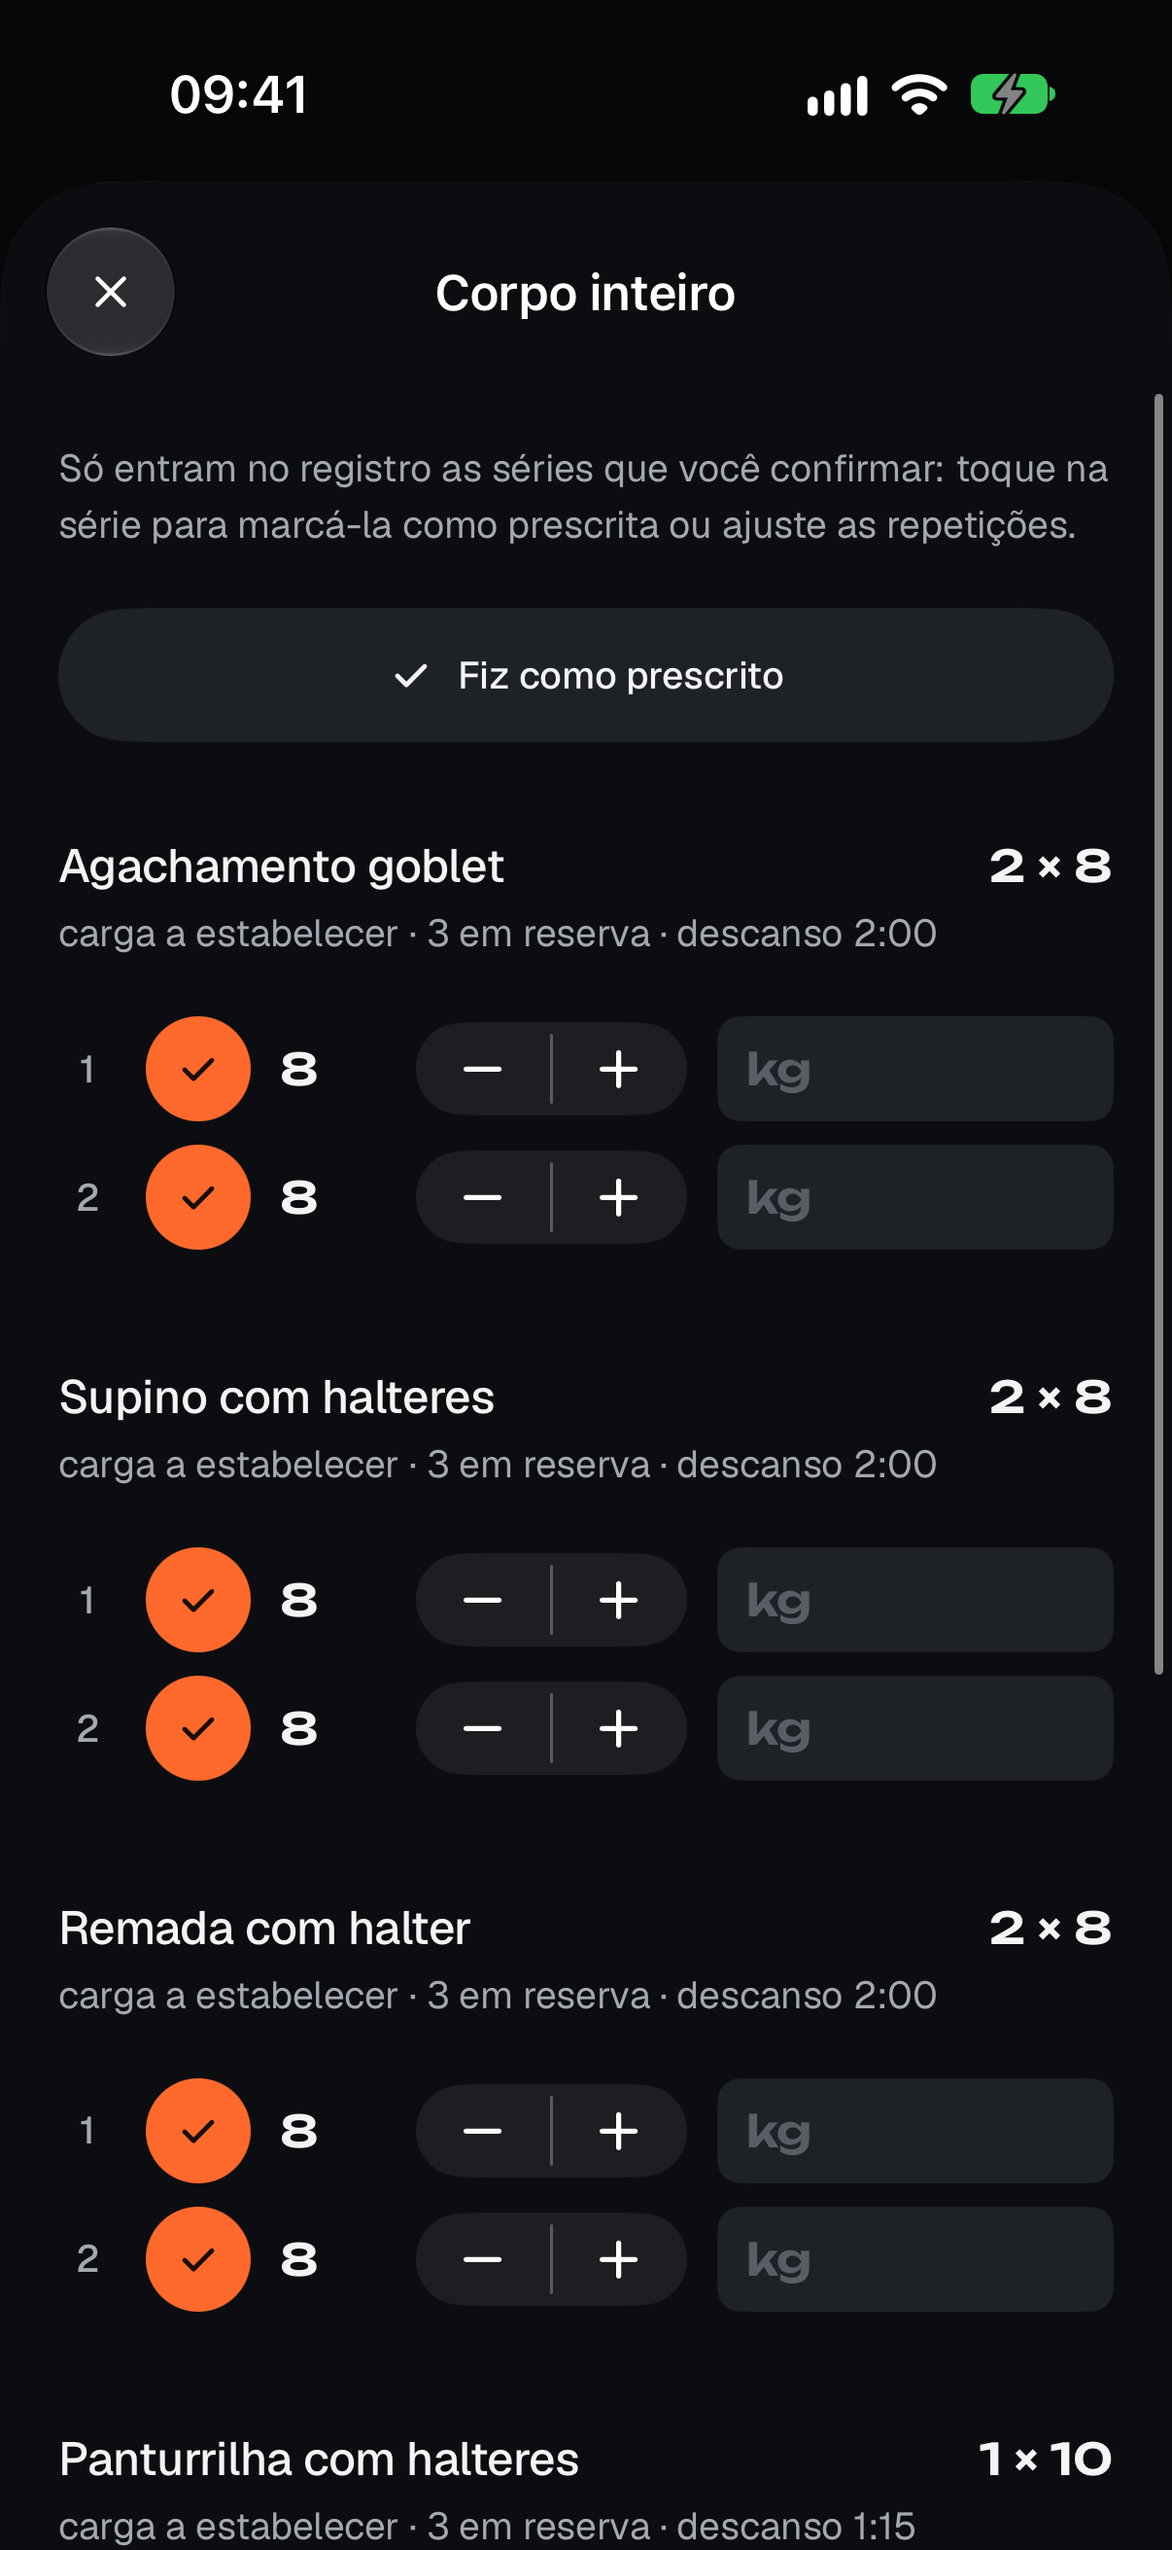
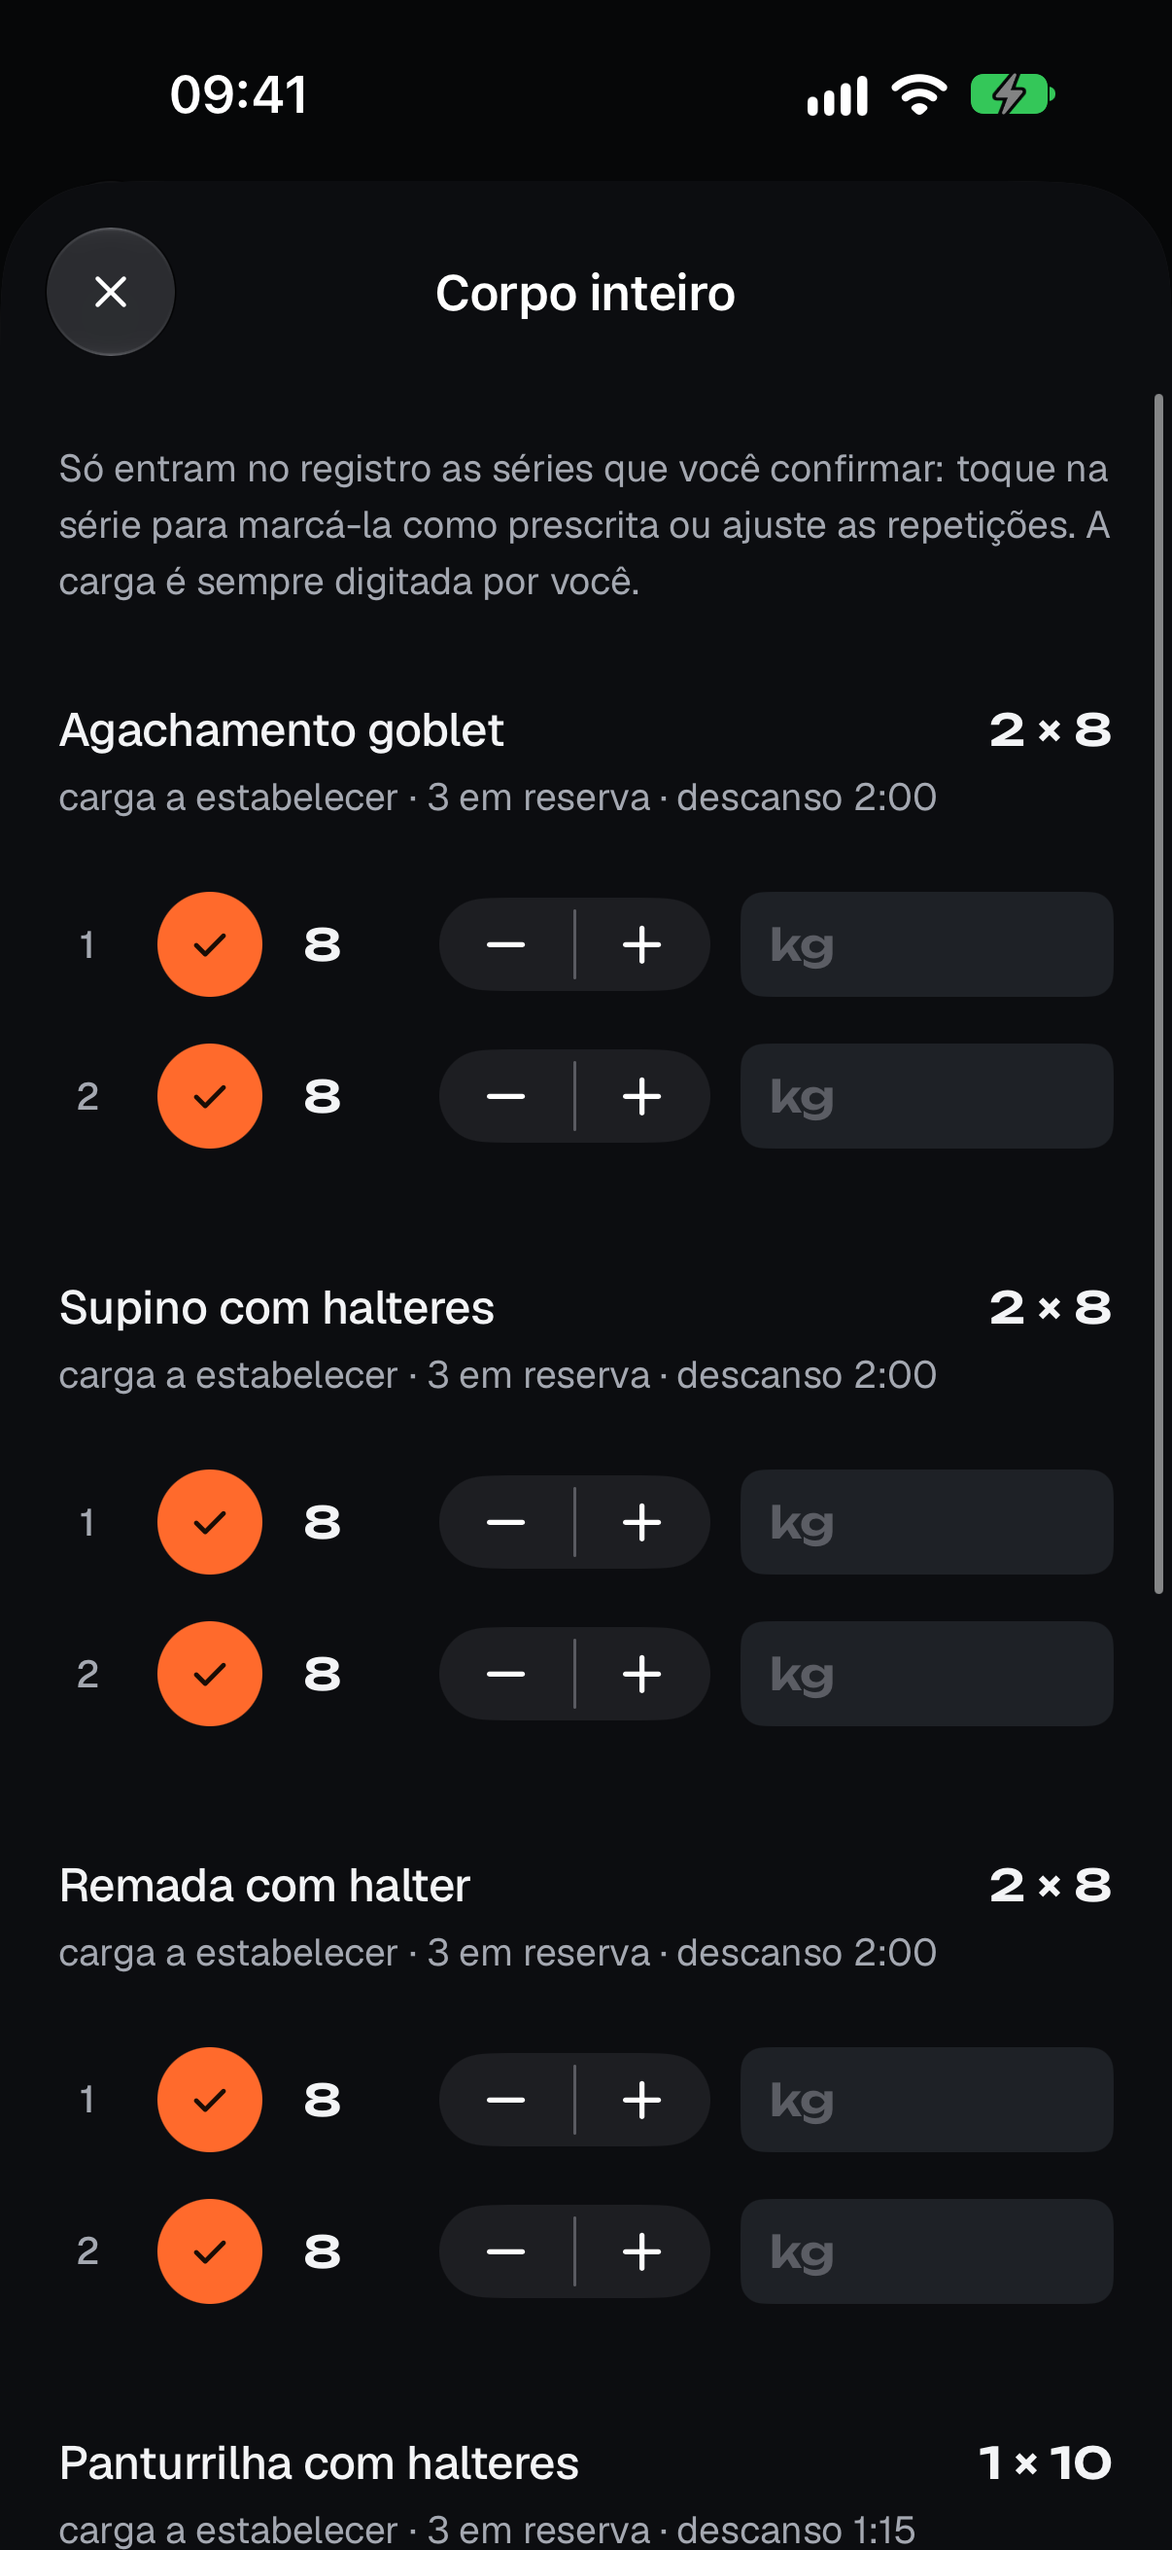
C · #37b: review fixes
Independent SSCTR review of 2171d69 (NOT_READY):
- F1 (P1): `completed` no longer depends on reps. It is true when every
  prescribed set is stated (sets done >= sets planned, as CoachingCore
  bindObservations setsOk); a missing set or an omitted exercise keeps it
  false. A reps shortfall is the per-exercise target (strengthLogs.repsMet),
  read by the engine from the reps sent as stated.
- F2: "Fiz como prescrito" is offered only while no set is stated (confirm
  first, then edit); it can no longer overwrite an edited set.
- F3: VoiceOver hears the count. The reps stepper is labelled with
  exercise + set and its value is the count (or "não registrada"); the check
  value is "registrada, N repetições". New copy keys strength.set.doneReps
  and strength.reps.label replace strength.set.done and strength.reps (all
  three locales via copy.psv + gen_strings.py).
- F4: the load field is disabled until the set is stated; setLoad on an
  unstated set is ignored (never states the set).
- F5: the check's hit area is 44 pt.
- F7: a planned session presented with no exercises fails closed: not
  sendable (minutes alone never report it) and `completed` is false.
- F8: strength.hint says the load is always typed by the athlete.
F6 (duplicate exercise ids) skipped as agreed; the dictionary already keeps
the first entry on a duplicate id.

diff --git a/ios/Packages/RepMileUI/Tests/RepMileUIUnitTests/StrengthLogViewModelTests.swift b/ios/Packages/RepMileUI/Tests/RepMileUIUnitTests/StrengthLogViewModelTests.swift
@@ -61,16 +61,57 @@ final class StrengthLogViewModelTests: XCTestCase {
         let squat = try XCTUnwrap(vm.actual().exercises.first { $0.id == "goblet-squat" })
         XCTAssertEqual(squat.sets, [LoggedSetEntry(reps: 8, load: nil, rir: nil),
                                     LoggedSetEntry(reps: 6, load: LoggedLoadEntry(value: 16.5, unit: .kg, convention: .singleImplement), rir: nil)])
-        XCTAssertFalse(vm.actual().completed, "fewer repetitions than prescribed is a shortfall (CoachingCore strengthLogs)")
-        vm.setReps(10, "goblet-squat", 1)
-        XCTAssertTrue(vm.actual().completed, "more repetitions than prescribed still meets it")
+        XCTAssertTrue(vm.actual().completed, "every set done: completion does not depend on reps (SSCTR #37b F1)")
+    }
+
+    /// SSCTR #37b F1: completion is sets done >= sets planned (CoachingCore `bindObservations` setsOk); a reps shortfall is the
+    /// per-exercise target, read by the engine from the reps sent as stated. A missing set or an omitted exercise keeps it false.
+    func testCompletedCountsSetsNotReps() throws {
+        let vm = viewModel(try session, FixtureCoachingWriter(store: Repo.store))
+        for e in vm.exercises { for i in 0..<e.sets { vm.setReps(3, e.id, i) } }
+        vm.setReps(1, "db-row", 0)
+        let a = vm.actual()
+        XCTAssertTrue(a.completed, "every prescribed set stated, some with fewer reps than prescribed")
+        XCTAssertEqual(a.exercises.first { $0.id == "db-row" }?.sets.map(\.reps), [1, 3], "reps are sent as stated")
+        XCTAssertEqual(a.exercises.first { $0.id == "goblet-squat" }?.sets.map(\.reps), [3, 3])
+        vm.setReps(nil, "goblet-squat", 1)
+        XCTAssertFalse(vm.actual().completed, "a missing set")
+        vm.setReps(3, "goblet-squat", 1)
+        vm.setReps(nil, "dead-bug", 0)
+        XCTAssertFalse(vm.actual().completed, "an omitted exercise")
+    }
+
+    /// SSCTR #37b F2: confirm first, then edit. Once any set is stated, "Fiz como prescrito" is no longer offered and cannot overwrite it.
+    func testConfirmAsPrescribedNeverOverwritesAStatedSet() throws {
+        let vm = viewModel(try session, FixtureCoachingWriter(store: Repo.store))
+        vm.setReps(5, "goblet-squat", 0)
+        XCTAssertFalse(vm.canConfirmAsPrescribed)
+        vm.confirmAsPrescribed()
+        XCTAssertEqual(vm.draft("goblet-squat", 0)?.reps, 5)
+        XCTAssertEqual(vm.statedSetCount, 1)
+        vm.setReps(nil, "goblet-squat", 0)
+        XCTAssertTrue(vm.canConfirmAsPrescribed, "offered again once nothing is stated")
+    }
+
+    /// SSCTR #37b F7: a planned session presented without exercises has nothing to state; it fails closed (never sendable on minutes alone).
+    func testPlannedSessionWithoutExercisesIsNotSendable() async throws {
+        let w = FixtureCoachingWriter(store: Repo.store)
+        let vm = viewModel(try session { $0 = [] }, w)
+        XCTAssertNotNil(vm.session)
+        XCTAssertTrue(vm.exercises.isEmpty)
+        vm.minutes = 30
+        XCTAssertFalse(vm.canSend)
+        XCTAssertFalse(vm.completed)
+        await vm.send()
+        XCTAssertTrue(submits(w).isEmpty)
     }
 
     func testUnconfirmedSetsAndExercisesAreAbsent() throws {
         let vm = viewModel(try session, FixtureCoachingWriter(store: Repo.store))
         vm.toggleSet(try exercise(vm, "goblet-squat"), 0)
         vm.setReps(5, "db-row", 1)
-        vm.setLoad("20", "db-bench-press", 0)  // a load on a set the athlete never stated is not a set
+        vm.setLoad("20", "db-bench-press", 0)  // a load never states a set (SSCTR #37b F4): ignored on an unstated set
+        XCTAssertEqual(vm.draft("db-bench-press", 0), StrengthLogViewModel.SetDraft())
         let a = vm.actual()
         XCTAssertEqual(a.exercises, [LoggedExerciseEntry(id: "goblet-squat", sets: [LoggedSetEntry(reps: 8, load: nil, rir: nil)]),
                                      LoggedExerciseEntry(id: "db-row", sets: [LoggedSetEntry(reps: 5, load: nil, rir: nil)])])
@@ -84,14 +125,19 @@ final class StrengthLogViewModelTests: XCTestCase {
         XCTAssertFalse(vm.canSend)
     }
 
-    /// The same session with no rep count prescribed for one exercise (the shared type allows `reps: nil`).
-    private func session(withoutRepsOn id: String) throws -> PlannedSession {
+    /// The same session with its presented exercises edited (the shared type allows `reps: nil` and an empty list).
+    private func session(_ edit: (inout [[String: Any]]) -> Void) throws -> PlannedSession {
         let view = try XCTUnwrap(try Repo.store.object("02-plan-w0")["view"] as? [String: Any])
         var s = try XCTUnwrap(((view["week"] as? [String: Any])?["sessions"] as? [[String: Any]])?.first { $0["id"] as? String == "w0-str-d2" })
         var p = try XCTUnwrap(s["prescription"] as? [String: Any])
-        p["exercises"] = try XCTUnwrap(p["exercises"] as? [[String: Any]]).map { e in var e = e; if e["id"] as? String == id { e.removeValue(forKey: "reps") }; return e }
+        var exercises = try XCTUnwrap(p["exercises"] as? [[String: Any]])
+        edit(&exercises)
+        p["exercises"] = exercises
         s["prescription"] = p
         return try JSONDecoder().decode(PlannedSession.self, from: JSONSerialization.data(withJSONObject: s))
+    }
+    private func session(withoutRepsOn id: String) throws -> PlannedSession {
+        try session { $0 = $0.map { e in var e = e; if e["id"] as? String == id { e.removeValue(forKey: "reps") }; return e } }
     }
 
     func testNoPrescribedRepsIsNeverInvented() async throws {

diff --git a/ios/Packages/RepMileUI/Sources/RepMileUI/Features/Run/StrengthLogViewModel.swift b/ios/Packages/RepMileUI/Sources/RepMileUI/Features/Run/StrengthLogViewModel.swift
@@ -45,8 +45,9 @@ final class StrengthLogViewModel {
         sets[id]?[i].reps = reps.flatMap { $0 > 0 ? $0 : nil }
     }
 
+    /// A load belongs to a stated set: typing it never states the set (the field stays off until the set is stated).
     func setLoad(_ text: String, _ id: String, _ i: Int) {
-        guard editable, draft(id, i) != nil else { return }
+        guard editable, draft(id, i)?.reps != nil else { return }
         sets[id]?[i].load = text
     }
 
@@ -62,9 +63,12 @@ final class StrengthLogViewModel {
         return d.reps != nil || (e.reps ?? 0) > 0
     }
 
-    /// "Fiz como prescrito" is offered only when the prescription gives every set a repetition count: it states exactly those sets and
-    /// counts (edits made before are replaced by the prescription the athlete confirms). Loads are left as typed.
-    var canConfirmAsPrescribed: Bool { editable && !exercises.isEmpty && exercises.allSatisfy { ($0.reps ?? 0) > 0 } }
+    /// "Fiz como prescrito" is offered only when the prescription gives every set a repetition count, and only while no set is stated
+    /// (confirm first, then edit: it never overwrites what the athlete already stated). It states exactly those sets and counts; it never
+    /// fills a load.
+    var canConfirmAsPrescribed: Bool {
+        editable && statedSetCount == 0 && !exercises.isEmpty && exercises.allSatisfy { ($0.reps ?? 0) > 0 }
+    }
 
     func confirmAsPrescribed() {
         guard canConfirmAsPrescribed else { return }
@@ -73,17 +77,17 @@ final class StrengthLogViewModel {
 
     var statedSetCount: Int { sets.values.reduce(0) { $0 + $1.filter { $0.reps != nil }.count } }
 
-    /// Minutes are always the athlete's; a planned session also needs at least one stated set (an untouched form sends nothing).
-    var canSend: Bool { editable && (minutes ?? 0) > 0 && (exercises.isEmpty || statedSetCount > 0) }
+    /// Minutes are always the athlete's. A planned session also needs at least one stated set (an untouched form sends nothing); a planned
+    /// session presented without exercises has no set to state, so it fails closed: never sendable on minutes alone.
+    var canSend: Bool { editable && (minutes ?? 0) > 0 && (session == nil || statedSetCount > 0) }
 
-    /// The contract's reading of a strength session done (CoachingCore `bindObservations` / `strengthLogs`: a shortfall is fewer sets, or
-    /// fewer repetitions, than prescribed): every prescribed set stated, none below its prescribed repetitions. Anything less is partial. An
-    /// unplanned session has no prescription; its stated minutes are the whole report.
+    /// Session completion as the contract reads it (CoachingCore `bindObservations`: `completed && setsOk`, `setsOk` = sets done >= planned
+    /// sets): every prescribed set stated; an omitted exercise or a missing set keeps it false. Repetitions do NOT enter it: a reps shortfall
+    /// is the per-exercise target (`strengthLogs.repsMet`), read by the engine from the reps sent as stated. An unplanned session has no
+    /// prescription; its stated minutes are the whole report.
     var completed: Bool {
-        exercises.allSatisfy { e in
-            let stated = (sets[e.id] ?? []).compactMap(\.reps)
-            return stated.count >= e.sets && stated.allSatisfy { $0 >= (e.reps ?? 1) }
-        }
+        if session != nil, exercises.isEmpty { return false }
+        return exercises.allSatisfy { e in (sets[e.id] ?? []).filter { $0.reps != nil }.count >= e.sets }
     }
 
     /// The report exactly as the shared types encode it: only stated sets, each with the athlete's repetitions and, when typed, the load.

diff --git a/ios/Packages/RepMileUI/Sources/RepMileUI/Features/Run/StrengthLogView.swift b/ios/Packages/RepMileUI/Sources/RepMileUI/Features/Run/StrengthLogView.swift
@@ -70,6 +70,7 @@ struct StrengthLogView: View {
 
     private func setRow(_ e: PrescribedExercise, _ i: Int) -> some View {
         let reps = viewModel.draft(e.id, i)?.reps
+        let stated = reps.map { L.f("strength.set.doneReps", "\($0)") } ?? L.t("strength.set.notDone")
         return HStack(spacing: 10) {
             Text("\(i + 1)").rmText(.rotulo, RM.Palette.textoSecundario).frame(width: 20)
             Button { viewModel.toggleSet(e, i) } label: {
@@ -77,26 +78,31 @@ struct StrengthLogView: View {
                     .foregroundStyle(reps != nil ? RM.Palette.acaoForcaTexto : RM.Palette.textoTerciario)
                     .frame(width: 36, height: 36)
                     .background(reps != nil ? RM.Palette.acaoForca : RM.Palette.fundoElevado2, in: Circle())
+                    .frame(width: 44, height: 44)
+                    .contentShape(Rectangle())
             }
             .buttonStyle(PressableStyle())
             .disabled(!viewModel.canToggle(e, i))
             .accessibilityLabel(L.f("strength.set", "\(i + 1)"))
-            .accessibilityValue(L.t(reps != nil ? "strength.set.done" : "strength.set.notDone"))
+            .accessibilityValue(stated)
             .accessibilityIdentifier("set-\(e.id)-\(i)")
             Stepper(value: Binding(get: { reps ?? 0 }, set: { viewModel.setReps($0, e.id, i) }), in: 0...50) {
                 Text(reps.map(String.init) ?? "–").rmText(.numeroS)
             }
             .frame(width: 140)
             .disabled(!viewModel.editable)
-            .accessibilityLabel(L.t("strength.reps"))
+            .accessibilityLabel(L.f("strength.reps.label", L.code("exercise", Code(raw: e.id)) ?? e.id, "\(i + 1)"))
+            .accessibilityValue(reps.map(String.init) ?? L.t("strength.set.notDone"))
             .accessibilityIdentifier("reps-\(e.id)-\(i)")
             if e.load?.mode.raw != "BODYWEIGHT" {
+                // The load belongs to a stated set: off until the set is stated, and typing it never states the set.
                 TextField("kg", text: Binding(get: { viewModel.draft(e.id, i)?.load ?? "" }, set: { viewModel.setLoad($0, e.id, i) }))
                     .keyboardType(.decimalPad)
                     .rmText(.numeroS)
                     .padding(.horizontal, 10).frame(height: 36)
                     .background(RM.Palette.fundoElevado2, in: RoundedRectangle(cornerRadius: 8))
-                    .disabled(!viewModel.editable)
+                    .disabled(!viewModel.editable || reps == nil)
+                    .opacity(reps == nil ? 0.5 : 1)
                     .accessibilityIdentifier("load-\(e.id)-\(i)")
             }
         }

diff --git a/ios/App/RepMile/UITests/ExecutionAndSafetyTests.swift b/ios/App/RepMile/UITests/ExecutionAndSafetyTests.swift
@@ -213,12 +213,14 @@ final class ExecutionAndSafetyTests: XCTestCase {
         XCTAssertTrue(el(app, "strength-needs-set").exists)
         for _ in 0..<8 where !app.buttons["strength-as-prescribed"].isHittable { app.swipeDown() }
         app.buttons["strength-as-prescribed"].tap()
-        XCTAssertEqual(app.buttons["set-goblet-squat-0"].value as? String, "registrada")
-        XCTAssertEqual(app.buttons["set-goblet-squat-1"].value as? String, "registrada")
+        XCTAssertEqual(app.buttons["set-goblet-squat-0"].value as? String, "registrada, 8 repetições")
+        XCTAssertEqual(app.buttons["set-goblet-squat-1"].value as? String, "registrada, 8 repetições")
+        XCTAssertEqual(app.steppers["reps-goblet-squat-1"].value as? String, "8", "VoiceOver hears the stated count")
+        XCTAssertFalse(app.buttons["strength-as-prescribed"].exists, "offered only while nothing is stated")
         attach(app, "Execução de força — fiz como prescrito (41)")
         for _ in 0..<8 where !save.isHittable { app.swipeUp() }
         XCTAssertTrue(save.isEnabled)
-        XCTAssertEqual(app.buttons["set-dead-bug-0"].value as? String, "registrada")
+        XCTAssertEqual(app.buttons["set-dead-bug-0"].value as? String, "registrada, 10 repetições")
         save.tap()
         XCTAssertTrue(el(app, "strength-saved").waitForExistence(timeout: 5))
     }
@@ -230,9 +232,13 @@ final class ExecutionAndSafetyTests: XCTestCase {
         app.buttons["set-goblet-squat-0"].tap()
         let reps = app.steppers["reps-goblet-squat-1"].buttons.element(boundBy: 1)
         for _ in 0..<5 { reps.tap() }
-        XCTAssertEqual(app.buttons["set-goblet-squat-0"].value as? String, "registrada")
-        XCTAssertEqual(app.buttons["set-goblet-squat-1"].value as? String, "registrada")
+        XCTAssertEqual(app.buttons["set-goblet-squat-0"].value as? String, "registrada, 8 repetições")
+        XCTAssertEqual(app.buttons["set-goblet-squat-1"].value as? String, "registrada, 5 repetições")
+        XCTAssertEqual(app.steppers["reps-goblet-squat-1"].value as? String, "5", "VoiceOver hears the stated count")
         XCTAssertEqual(app.buttons["set-db-bench-press-0"].value as? String, "não registrada")
+        XCTAssertEqual(app.steppers["reps-db-bench-press-0"].value as? String, "não registrada")
+        XCTAssertTrue(app.textFields["load-goblet-squat-1"].isEnabled)
+        XCTAssertFalse(app.textFields["load-db-bench-press-0"].isEnabled, "no load before the set is stated")
         attach(app, "Execução de força — registro parcial (41)")
         addStrengthMinutes(app)
         let save = app.buttons["strength-save"]
